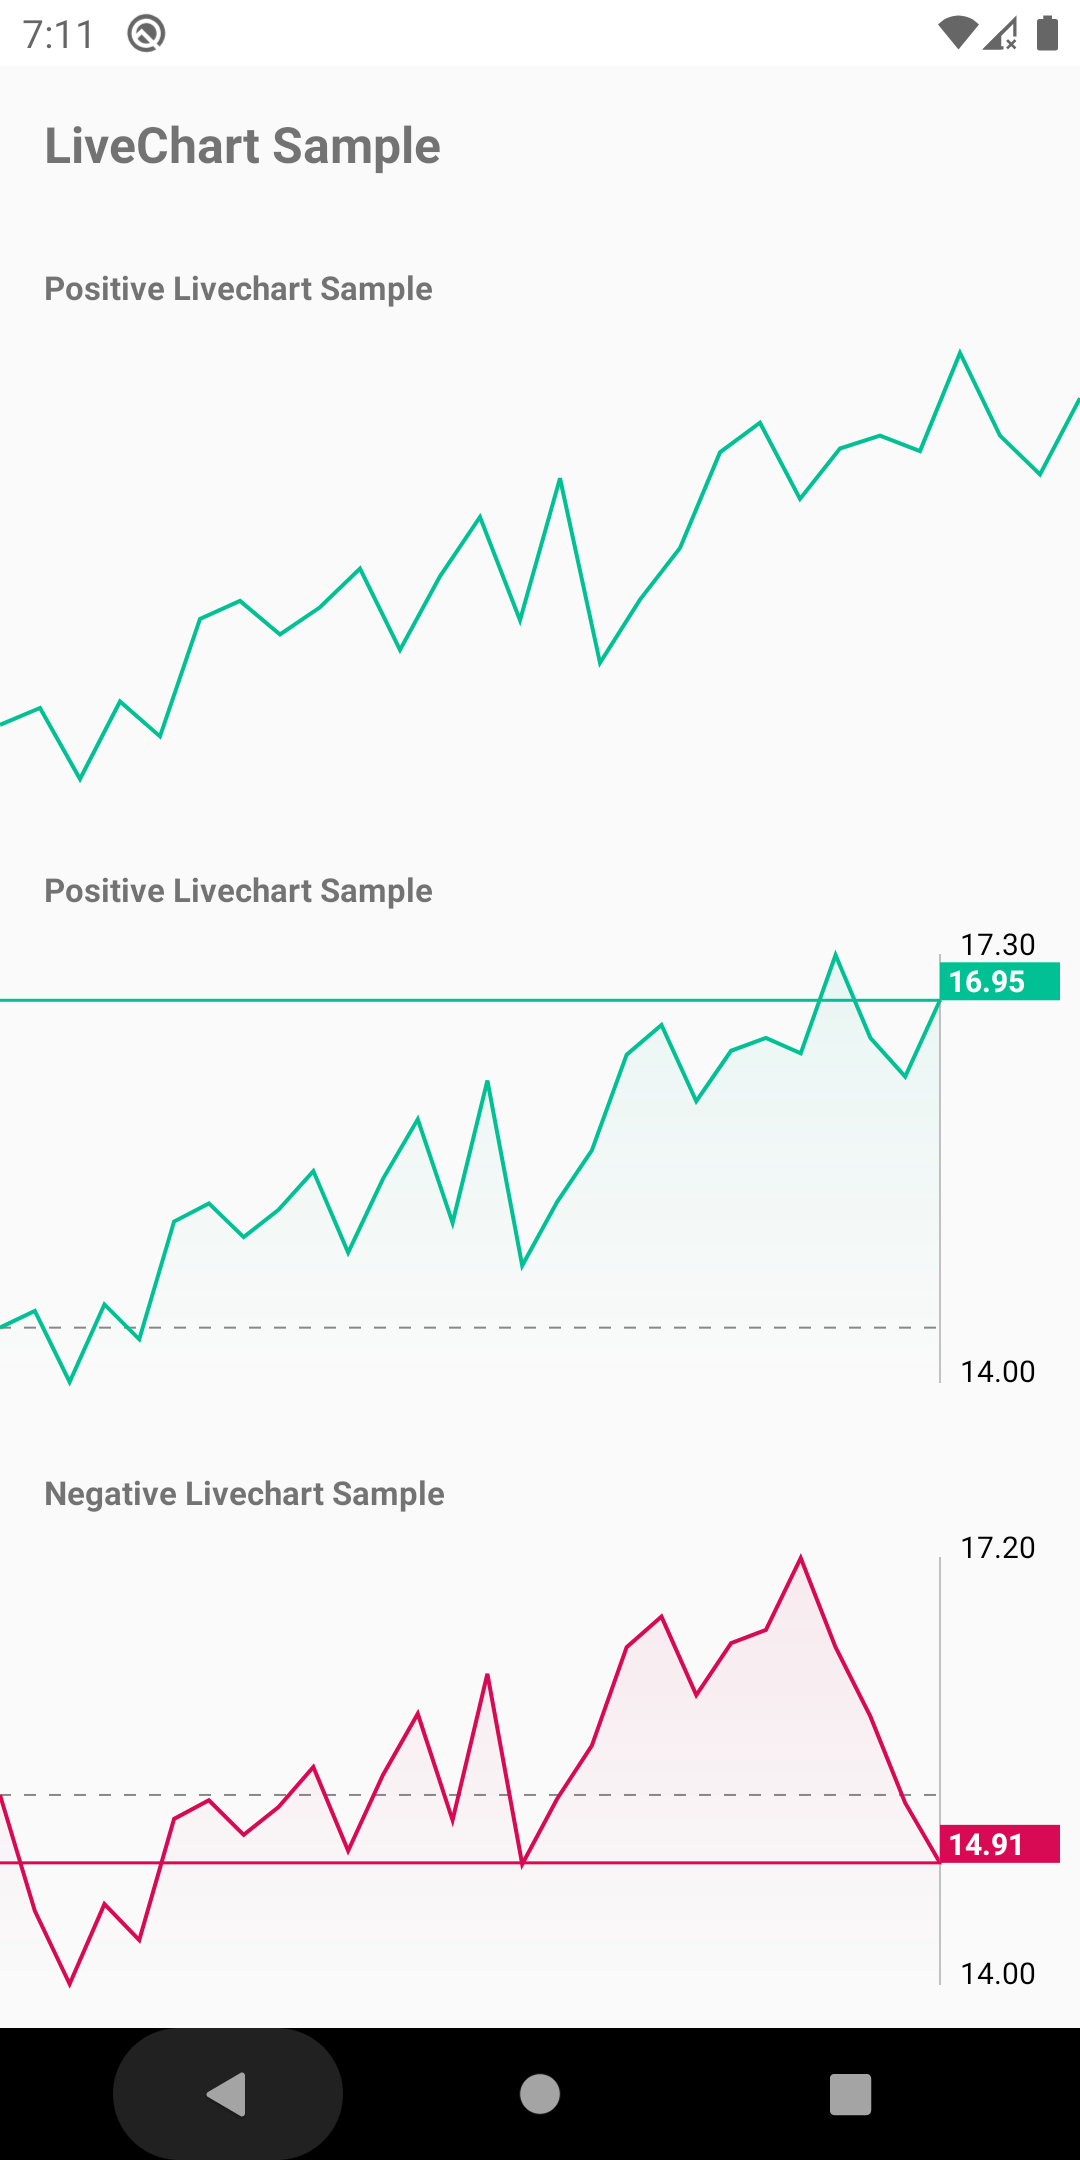
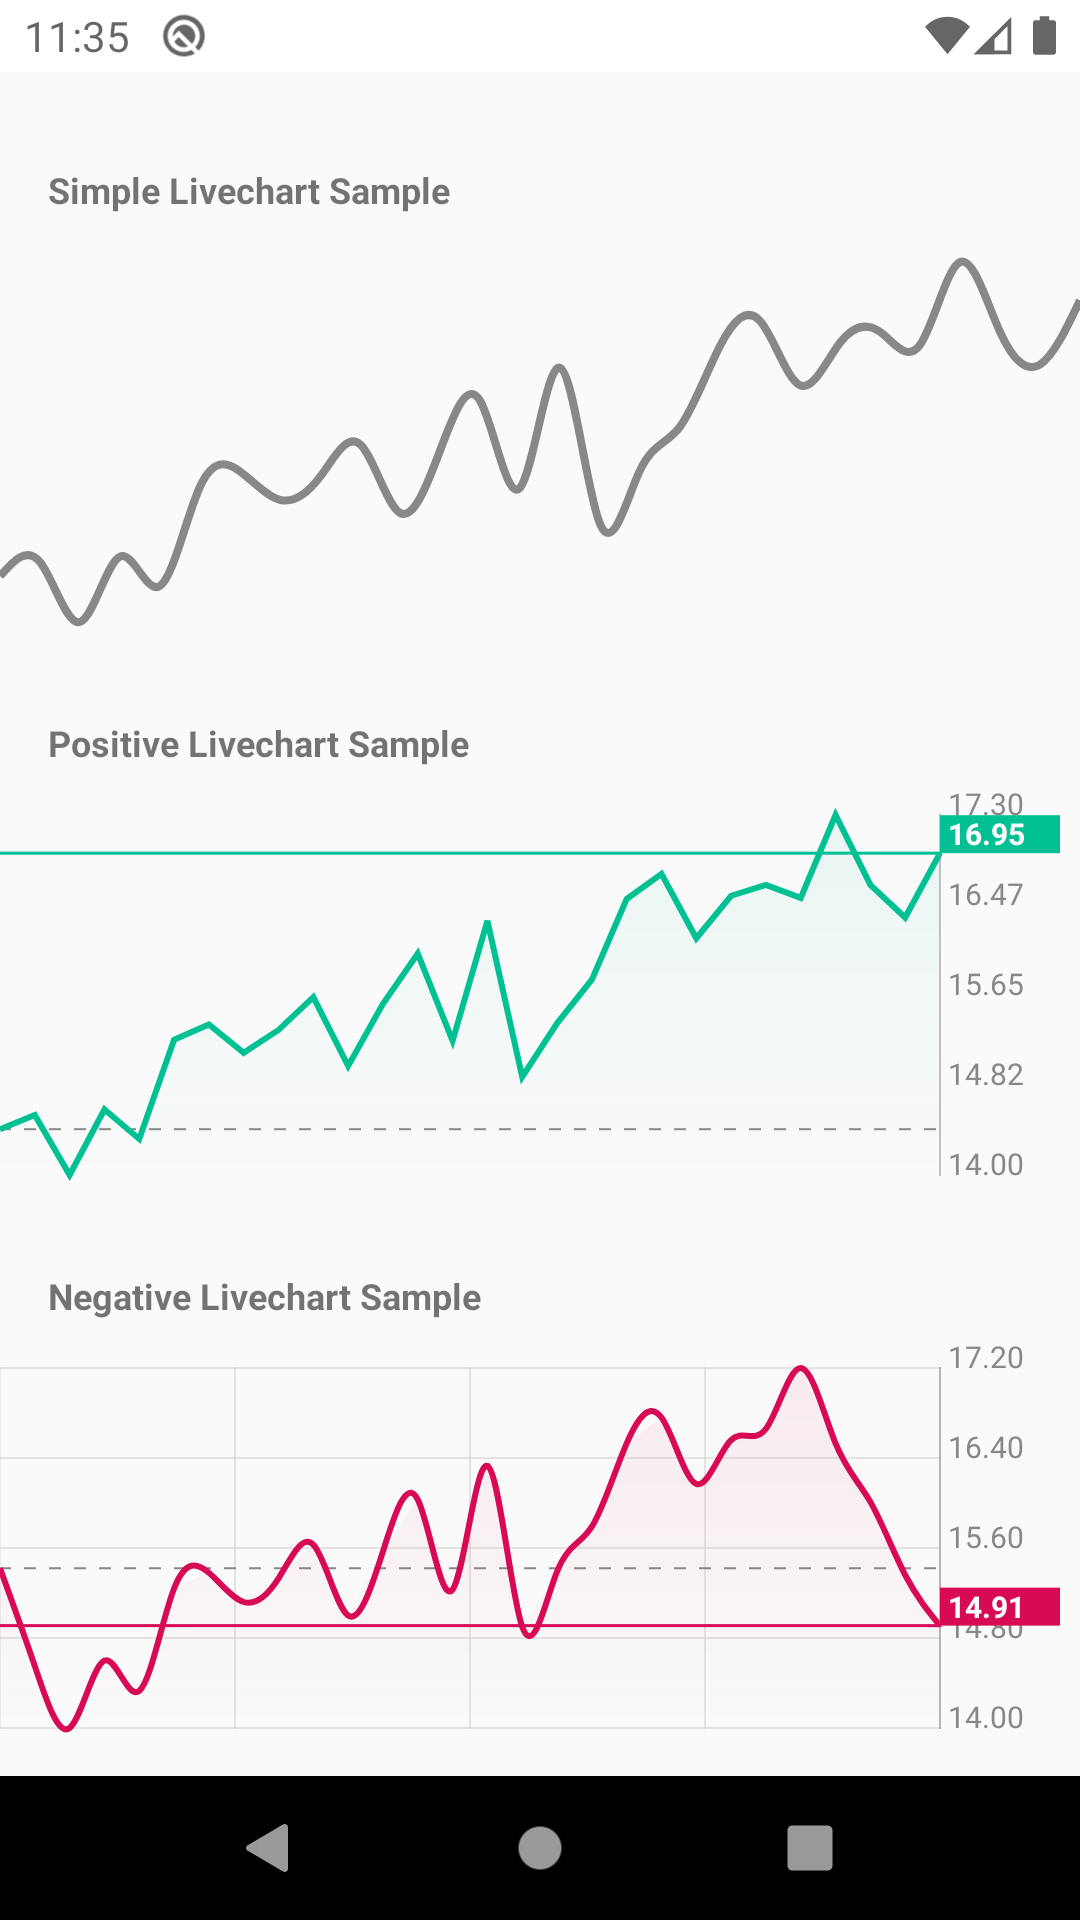
docs: update sample image with new features

diff --git a/app/src/main/java/com/yabu/livechartdemoapp/MainActivity.kt b/app/src/main/java/com/yabu/livechartdemoapp/MainActivity.kt
@@ -30,31 +30,17 @@ class MainActivity : AppCompatActivity() {
         val chartStyle = LiveChartStyle().apply {
             mainColor = Color.GRAY
             pathStrokeWidth = 8f
-            guideLineColor = Color.BLUE
             secondPathStrokeWidth = 4f
             textHeight = 40f
-            textColor = Color.WHITE
+            textColor = Color.GRAY
             overlayLineColor = Color.BLUE
             overlayCircleDiameter = 32f
             overlayCircleColor = Color.GREEN
         }
 
-        val secondDataset = Dataset(mutableListOf(DataPoint(0f, 0f),
-            DataPoint(1f, 1f),
-            DataPoint(2f, 2f),
-            DataPoint(3f, 3f),
-            DataPoint(4f, 4f),
-            DataPoint(5f, 5f),
-            DataPoint(6f, 10f),
-            DataPoint(7f, 18f)
-        ))
-
         livechartSimple.setDataset(dataset)
             .setLiveChartStyle(chartStyle)
-            .drawYBounds()
             .drawSmoothPath()
-            .drawVerticalGuidelines(4)
-            .drawHorizontalGuidelines(4)
             .setOnTouchCallbackListener(object : LiveChart.OnTouchCallback {
                 @SuppressLint("SetTextI18n")
                 override fun onTouchCallback(point: DataPoint) {
@@ -69,26 +55,24 @@ class MainActivity : AppCompatActivity() {
             })
             .drawDataset()
 
-        val firstDataset = Dataset(mutableListOf(DataPoint(0f, 1f),
-            DataPoint(1f, 2f),
-            DataPoint(2f, 3f),
-            DataPoint(3f, 4f),
-            DataPoint(4f, 5f),
-            DataPoint(5f, 8f),
-            DataPoint(6f, 13f),
-            DataPoint(7f, 21f)
-        ))
-
         val style = LiveChartStyle().apply {
-            mainColor = Color.GRAY
-            secondColor = Color.MAGENTA
-            pathStrokeWidth = 8f
+            mainColor = Color.parseColor("#01C194")
+            textColor = Color.GRAY
+            positiveColor = Color.parseColor("#01C194")
+            positiveFillColor = Color.parseColor("#01C194")
+            negativeColor = Color.parseColor("#d70a53")
+            negativeFillColor = Color.parseColor("#d70a53")
+            pathStrokeWidth = 6f
             secondPathStrokeWidth = 4f
         }
 
-        livechart.setDataset(firstDataset)
+        livechart.setDataset(dataset)
             .setLiveChartStyle(style)
             .drawYBounds()
+            .drawFill()
+            .drawBaseline()
+            .drawLastPointLabel()
+            .drawBaselineConditionalColor()
             .setOnTouchCallbackListener(object : LiveChart.OnTouchCallback {
                 @SuppressLint("SetTextI18n")
                 override fun onTouchCallback(point: DataPoint) {
@@ -104,9 +88,14 @@ class MainActivity : AppCompatActivity() {
             .drawDataset()
 
         livechartNegative.setDataset(negativeDataset)
+            .setLiveChartStyle(style)
             .drawYBounds()
-            .drawBaseline()
             .drawSmoothPath()
+            .drawBaseline()
+            .drawFill()
+            .drawHorizontalGuidelines(steps = 4)
+            .drawVerticalGuidelines(steps = 4)
+            .drawBaselineConditionalColor()
             .drawLastPointLabel()
             .setOnTouchCallbackListener(object : LiveChart.OnTouchCallback {
                 @SuppressLint("SetTextI18n")
